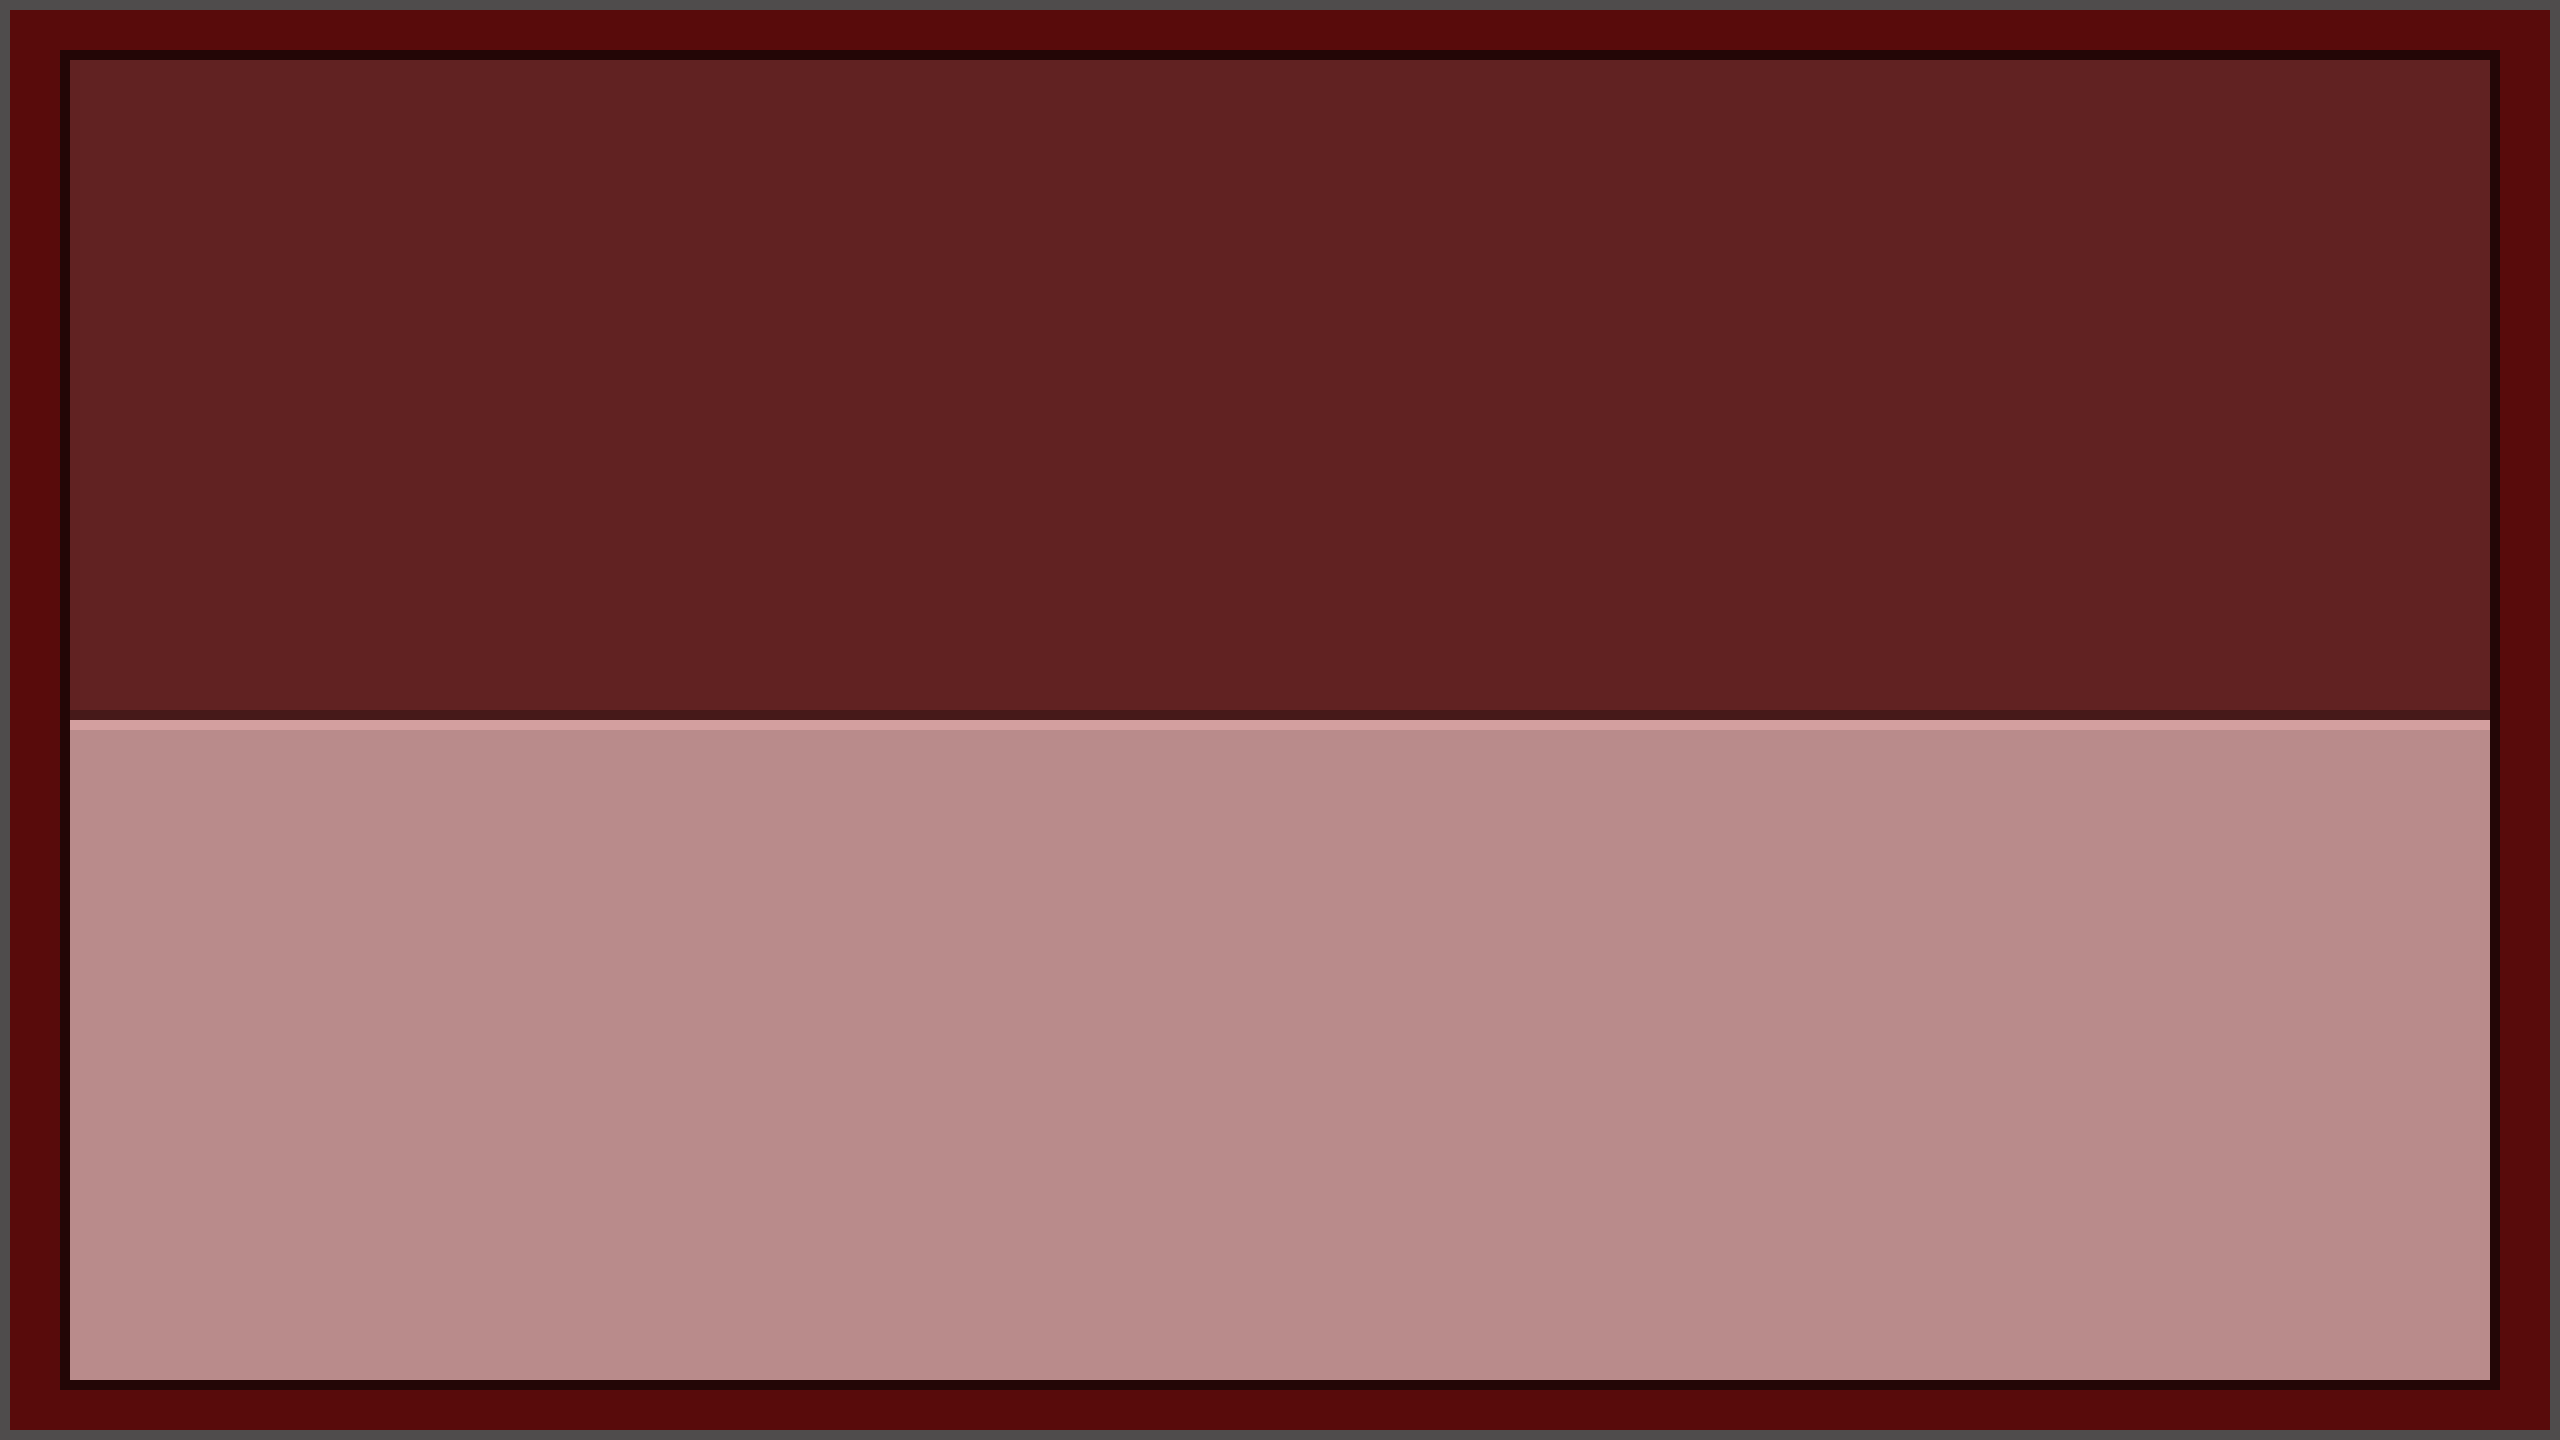
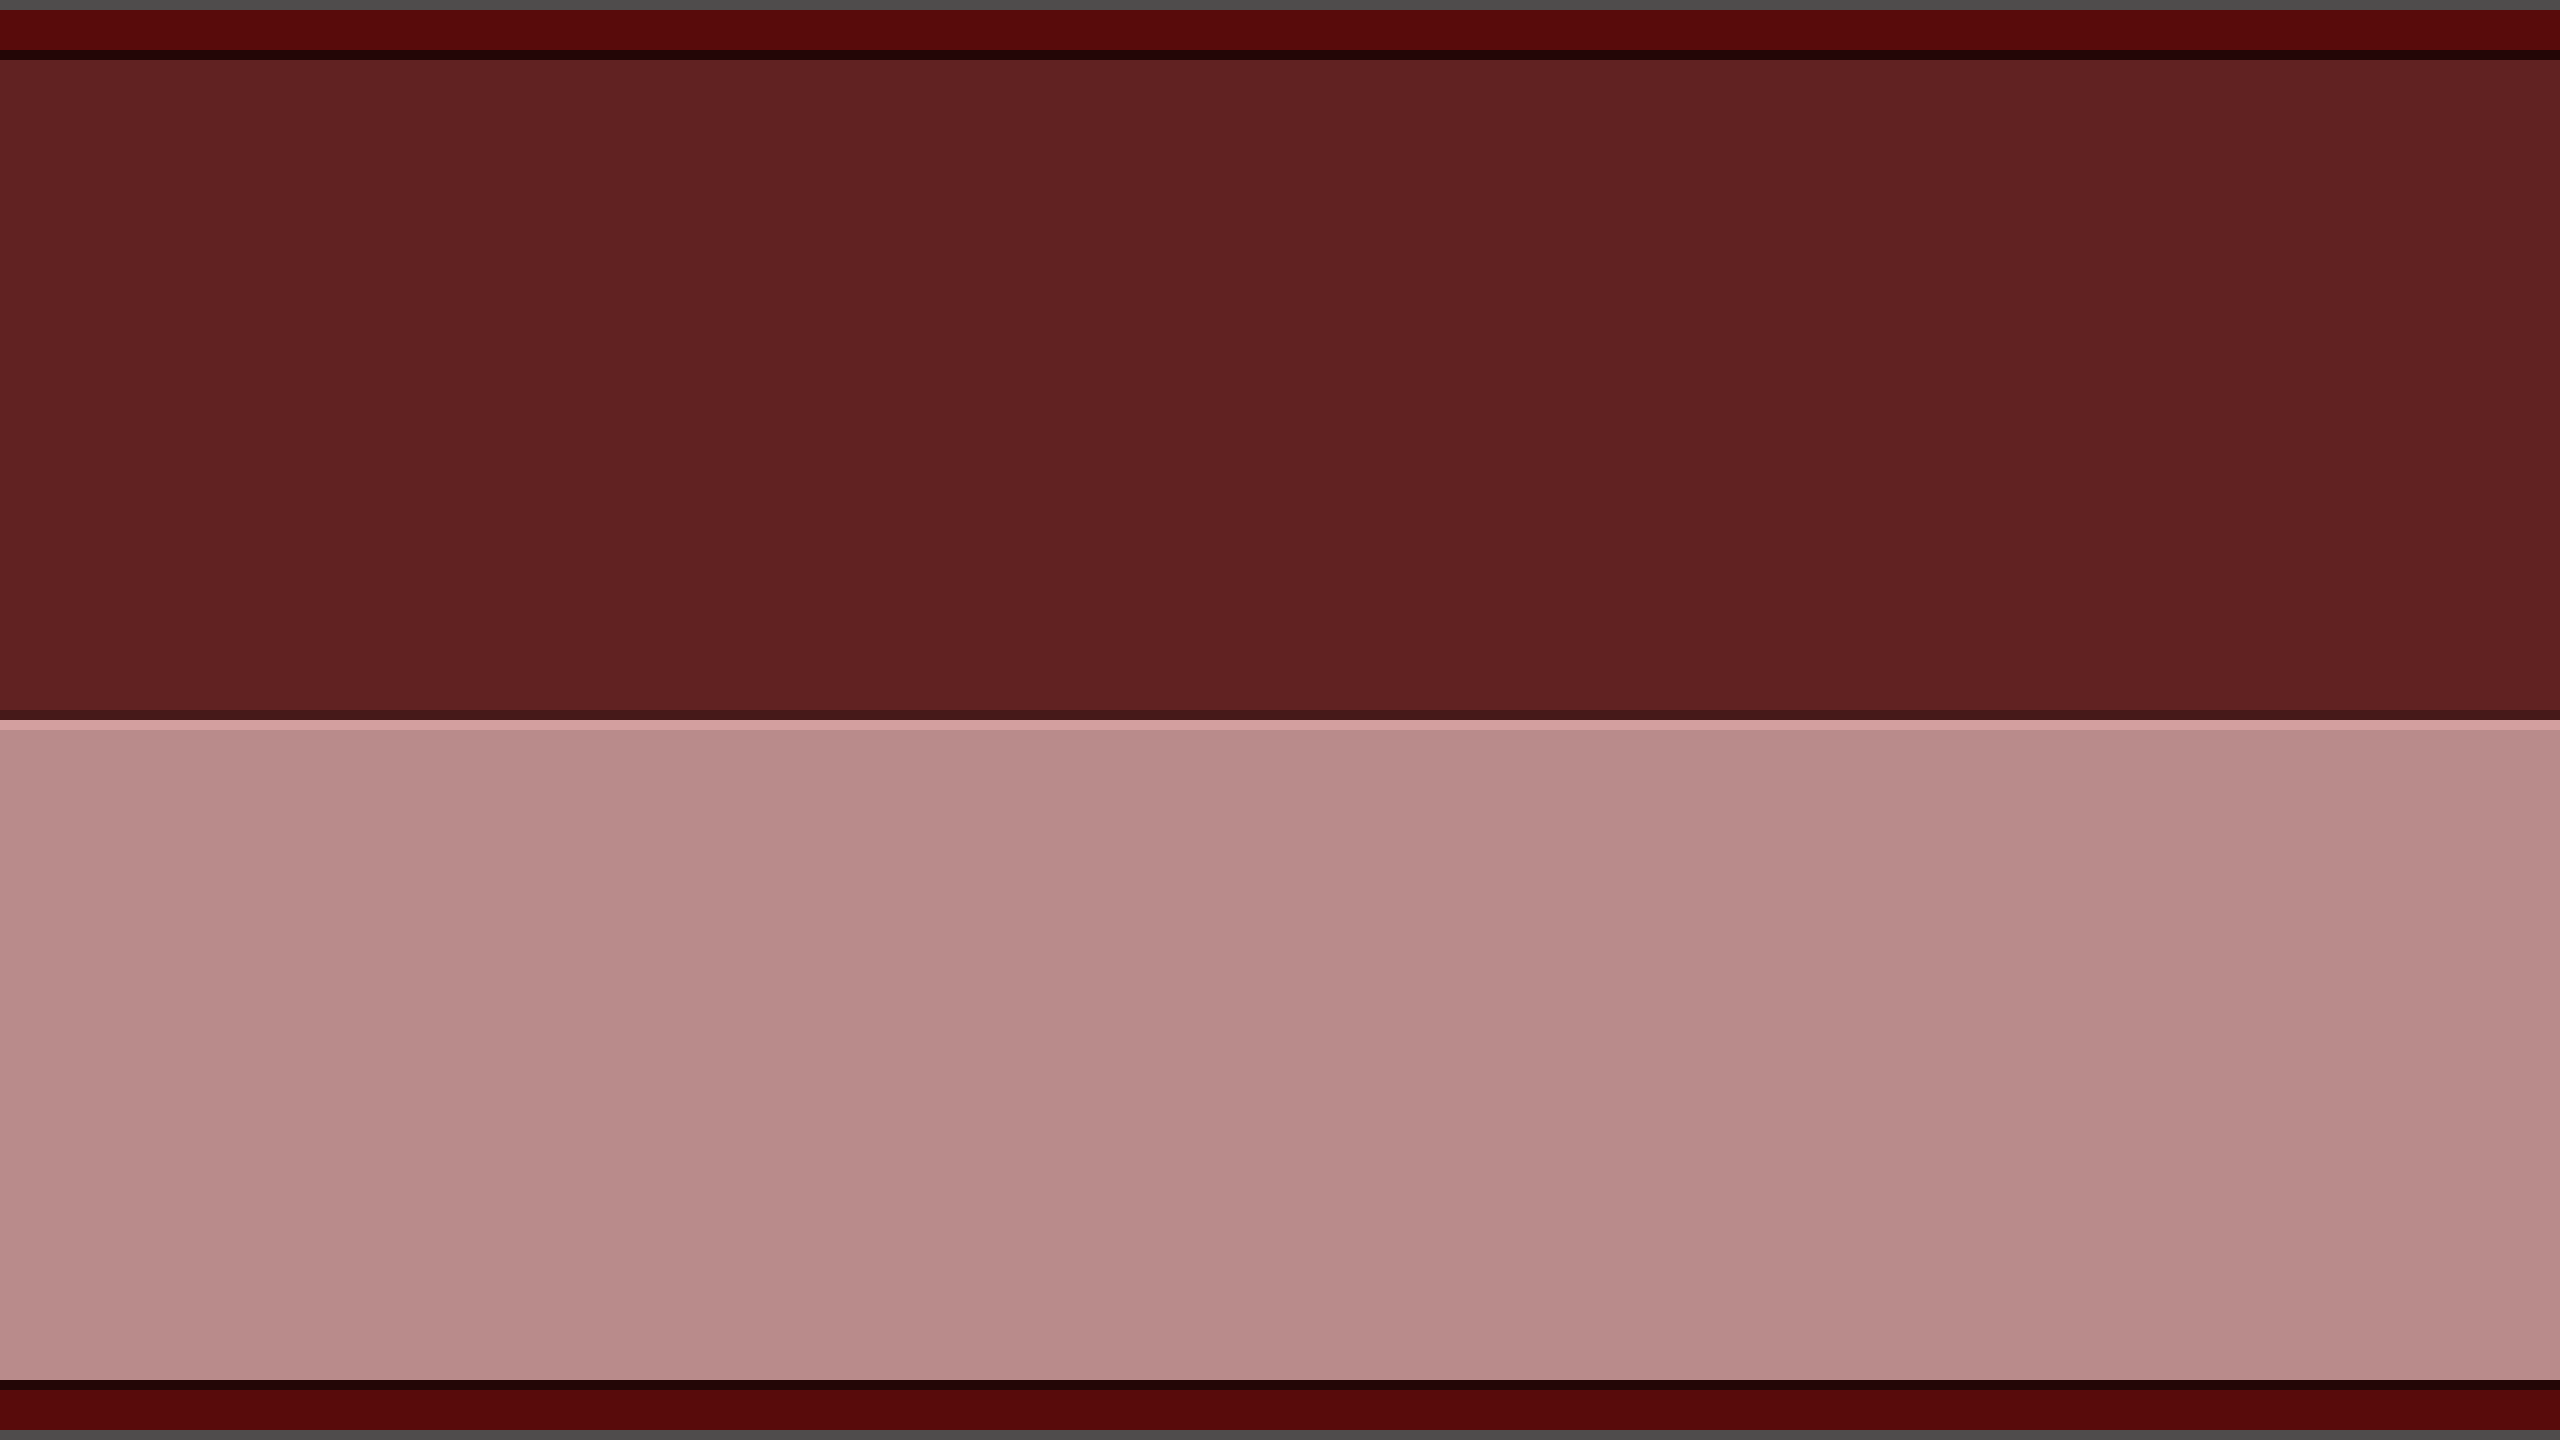
featuring

Changed region(s): [[0.9688, 0.0312, 1.0, 0.9688], [0.0, 0.0312, 0.0312, 0.9688]]

diff --git a/credits.html b/credits.html
@@ -1,0 +1,75 @@
+<!DOCTYPE html>
+<html lang="en">
+<head>
+    <meta charset="UTF-8">
+    <meta http-equiv="X-UA-Compatible" content="IE=edge">
+    <meta name="viewport" content="width=device-width, initial-scale=1.0">
+    <link rel="stylesheet" href="style.css">
+    <title>Credits</title>
+</head>
+<body>
+    <div class="container">
+        <div class="header">
+
+        </div>
+        <div class="main">
+            <div class="card">
+                <h1>Game Credits</h1>
+
+                <h2>DEVELOPMENT TEAM</h2>
+                <p>
+                    <strong>Game Director:</strong> Aditya<br>
+                    <strong>Lead Programmer:</strong> Aditya<br>
+                    <strong>Lead Designer:</strong> Aditya<br>
+                </p>
+            
+                <h2>PROGRAMMING</h2>
+                <p>
+                    Gameplay Programmer: Aditya<br>
+                </p>
+            
+                <h2>DESIGN AND ART</h2>
+                <p>
+                    Character Artist: Joel Francis Burford<br>
+                    Environment Artist: Aditya<br>
+                    Animator: Joel Francis Burford
+                </p>
+            
+                <h2>AUDIO</h2>
+                <p>
+                    Composer: Viqi Music<br>
+                </p>
+            
+                <h2>SPECIAL THANKS</h2>
+                <p>
+                    We would like to express our sincere gratitude to the following individuals and organizations for their support and inspiration:<br>
+                    - Our families and friends<br>
+                    - codecafe.id<br>
+                    - Gaming Community
+                </p>
+            
+                <h2>COPYRIGHT INFORMATION</h2>
+                <p>© 2023 Game Studios. All rights reserved.</p>
+            
+                <h2>CONTACT</h2>
+                <p>
+                    For more information, please visit our website: <a href="http://www.dheep.site" target="_blank">www.dheep.site</a><br>
+                    Follow us on social media:<br>
+                    Instagram: <a href="https://www.instagram.com/d.dheepy/" target="_blank">@d.dheepy</a>
+                </p>
+            </div>
+            <div class="input-area">
+                <a href="index.html">
+                    <button id="startbtn">BACK To Home</button>
+                </a>
+            </div>
+        </div>
+
+        </div>
+    </div>
+    <div class="blocker">
+        <h6>Mohon Maaf game ini hanya bisa <p></p>di mainkan di pc / laptop saja</h6>
+    </div>
+    
+</body>
+</html>

diff --git a/howtoplay.html b/howtoplay.html
@@ -1,0 +1,64 @@
+<!DOCTYPE html>
+<html lang="en">
+<head>
+    <meta charset="UTF-8">
+    <meta http-equiv="X-UA-Compatible" content="IE=edge">
+    <meta name="viewport" content="width=device-width, initial-scale=1.0">
+    <link rel="stylesheet" href="style.css">
+    <title>Credits</title>
+</head>
+<body>
+    <div class="container">
+        <div class="header">
+
+        </div>
+        <div class="main">
+            <div class="card">
+                <h1>How To Play</h1>
+                
+                <ul>
+                    <li>
+                        <p>Gunkan tombol 'W, A, S, D' untuk bergerak</p>
+                    </li>
+                    <li>
+                        <p>Gunkan tombol 'Arrow Up, Arrow Down, Arrow Left, Arrow Right' untuk menembak</p>
+                    </li>
+                    <li>
+                        <p>Game Ini terdiri dari 45 level, capai level 45 untuk menamatkan game ini</p>
+                    </li>
+                    <li>
+                        <p>Setiap anda membunuh musuh, musuh akan men-drop koin yang bisa anda ambil</p>
+
+                    </li>
+                    <li>
+
+                        <p>Anda dapat meng-upgrade senjata anda di shop</p>
+                    </li>
+                    <li>
+
+                        <p>Setiap level mempunyai target kill yang harus di selesaikan untuk menyelesaikan level tersebut</p>
+                    </li>
+                    <li>
+
+                        <p>Pada level 10,20,30,40, dan 45 adalah level boss, fokus untuk kill boss saja untuk menang</p>
+                    </li>
+                    <br>
+                </ul>
+                <p>selamat berperang</p>
+                
+            </div>
+            <div class="input-area">
+                <a href="index.html">
+                    <button id="startbtn">BACK To Home</button>
+                </a>
+            </div>
+        </div>
+
+        </div>
+    </div>
+    <div class="blocker">
+        <h6>Mohon Maaf game ini hanya bisa <p></p>di mainkan di pc / laptop saja</h6>
+    </div>
+    
+</body>
+</html>

diff --git a/style.css b/style.css
@@ -7,7 +7,7 @@ body{
     background-color: #010409;
     margin: 0;
     padding: 0;
-    zoom: 120%;
+    zoom: 110%;
 }
 
 .main{
@@ -25,6 +25,7 @@ body{
     height: 400px;
 }
 
+
 .startpage{
     background-image: url('../assets/img/bgloby.png');
     background-size: cover;
@@ -37,13 +38,53 @@ body{
     justify-content: center;
 }
 
-td{
-    border: 2px solid wheat;
+table{
+    width: 90%;
+    margin: auto;
 }
+.container{
+    transform: translateY(10%);
+}
+td , .moneyclass{
+    border: 2px solid black;
+    padding: 0.5rem;
+    margin: 0;
+    border-radius: 5px;
+    background-color: rgb(210, 171, 98);
+    box-shadow: 2px 2px 2px 2px rgba(0,0,0,0.3);
+}
+
+td:hover{
+    box-shadow: 3px 3px 3px 3px rgba(0,0,0,0.3);
+    transform: translate(1px,1px);
+}
+
 
 .startpage button, .selectlevel, a{
     margin:0.5rem auto;
     width: 50%;
+}
+
+.selectlevel{
+    background-color: wheat;
+    border: 2px solid black;
+    border-radius: 5px;
+    padding: 0.5rem;
+}
+
+.selectlevel select{
+    background-color: rgb(182, 182, 164);
+    width: 100%;
+    height: 30px;
+    border-radius: 5px;
+}
+
+.card{
+    overflow-y: scroll;
+    margin: auto;
+    color: wheat;
+    width: 50%;
+    height: 100rem;
 }
 
 .input-area,.text-area{
@@ -53,11 +94,27 @@ td{
     border: 2px solid wheat;
     display: flex;
     justify-content: space-evenly;
+    border-radius: 5px;
 }
 .input-area button{
     width: 18%;
 }
 
+button{
+    background-color: wheat;
+    padding:0.3rem;
+    border-radius: 5px;
+    box-shadow: 2px 2px 2px 2px rgba(0,0,0,0.3);
+}
+
+button:hover{
+    box-shadow: 3px 3px 3px 3px rgba(0,0,0,0.3);
+    transform: translate(1px,1px);
+}
+
+button:active{
+    box-shadow: none;
+}
 canvas{
     margin: auto;
     border: 2px wheat solid;

diff --git a/index.html b/index.html
@@ -33,8 +33,11 @@
                         <a href="shop.html" >
                             <button onclick="RefreshAllBtnShop(ShopBtn)" style="width: 100%;">SHOP</button>
                         </a>
-                        <a href="" >
+                        <a href="credits.html" >
                             <button style="width: 100%;">Credit</button>
+                        </a>
+                        <a href="howtoplay.html" >
+                            <button style="width: 100%;">How To Play</button>
                         </a>
                     </div>
                 </div>
@@ -50,7 +53,7 @@
     <script>
         // List of resource URLs
         const resources = [
-            { type: 'img', url: 'bgloby.png' },
+            { type: 'img', url: 'bgmenu.png' },
             { type: 'img', url: 'bg1.png' },
             { type: 'img', url: 'bg2.png' },
             { type: 'img', url: 'bg3.png' },

diff --git a/shop.html b/shop.html
@@ -8,7 +8,7 @@
     <title>Shop</title>
 </head>
 <body>
-    <div class="container">
+    <div class="container shop">
         <div class="header">
         </div>
         <div class="main">
@@ -19,10 +19,10 @@
                 <p id="msglevel"></p>
                 <p id="msgtargetkills"></p>
             </div>
-                <div class="startpage">
+                <div class="startpage ">
                     <table>
                         <tr>
-                            <th>Money : <span id="moneyspan"></span></th>
+                            <th class="moneyclass">Money : <span id="moneyspan"></span></th>
                             <th>-</th>
                             <th>-</th>
                             <th>-</th>

diff --git a/ending.html b/ending.html
@@ -51,7 +51,9 @@
                 
             </div> -->
             <div class="input-area">
-                <button id="startbtn">BACK To Home</button>
+                <a href="index.html">
+                    <button id="startbtn">BACK To Home</button>
+                </a>
                 <button id="restartbtn">x</button>
             </div>
         </div>

diff --git a/script.js b/script.js
@@ -120,7 +120,9 @@ function gameloop() {
 
 function start() {
   if(levelIndex == 45 && win){
+    setTimeout(()=>{
       window.location.href = "ending.html"
+    },4000)
   }
   let thislevel = atob(getCookie("levelselected"));
   levelIndex = thislevel;
